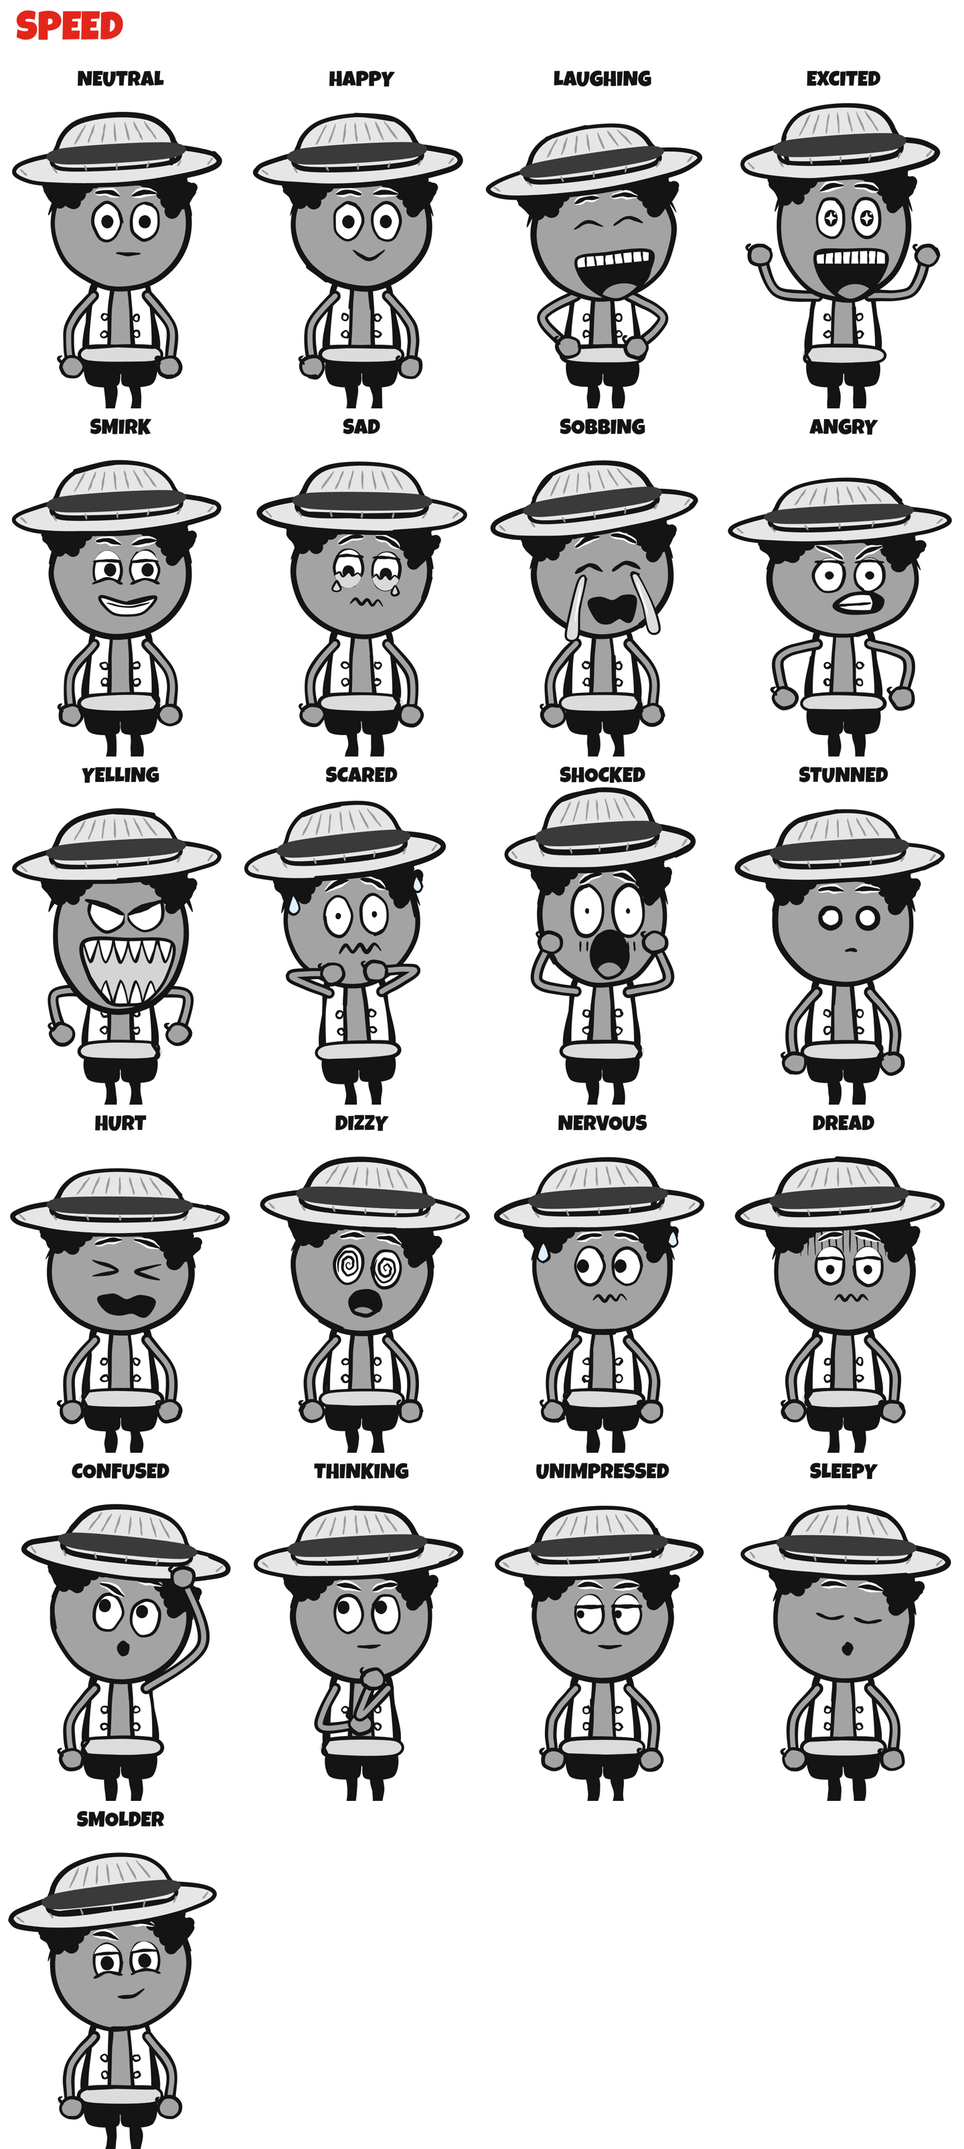
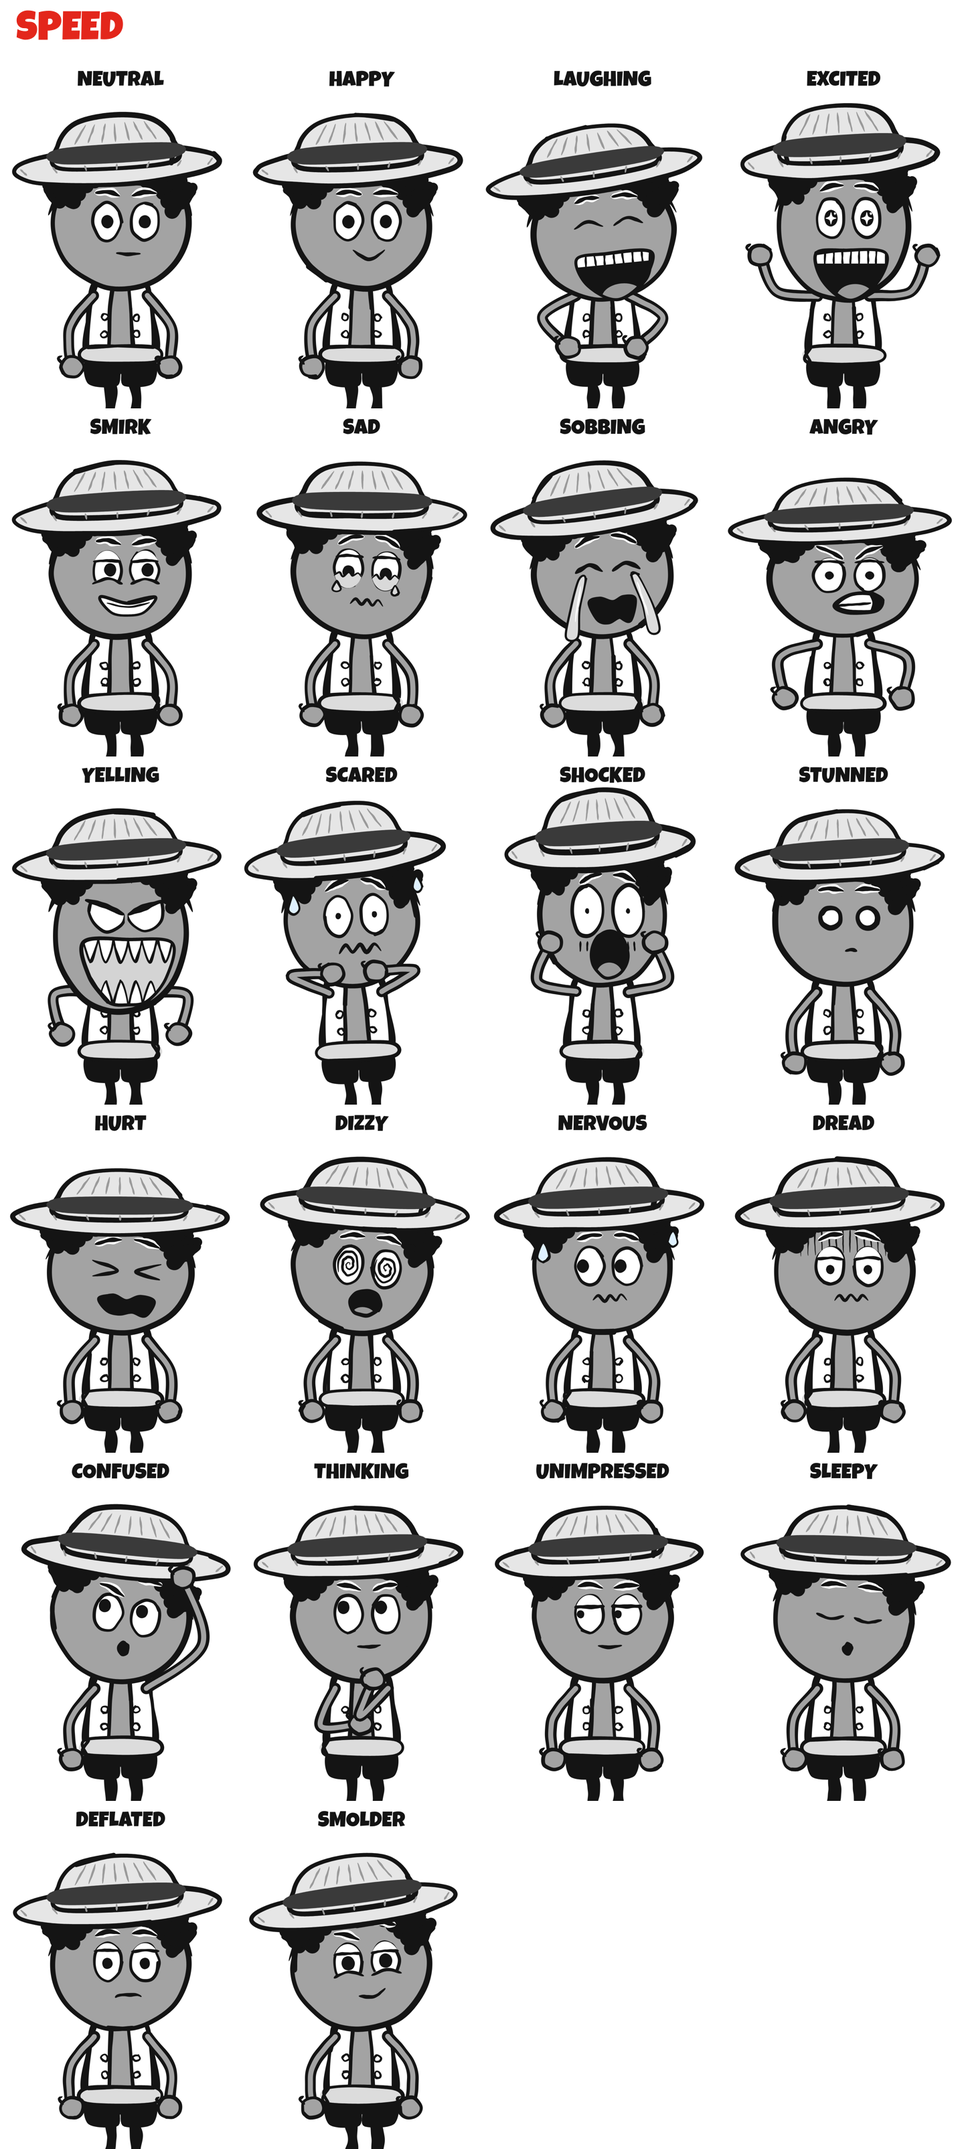
Haircut: deflated after face, transformation in the mirror instead of a smash cut
The barber turns the chair, he glances at the mirror (8 frames), the camera
pushes in and hands over to the reflection, where the hair swells into the
styled shape over 11 frames, sparkles pop one by one, the smirk lands last and
holds 2.5 s. After: new Emotions.deflated (mouth 'flatdown') and a 10-frame
sink as the hand mirror comes up.

Claude-Session: https://claude.ai/code/session_01EegAb7cyviQxGjmyZ5UDFA

Changed region(s): [[0.25, 0.8411, 0.4688, 1.0], [0.0, 0.8411, 0.2188, 0.9346]]

diff --git a/web/skits/haircut.js b/web/skits/haircut.js
@@ -1,13 +1,13 @@
 // "Me before / during / after getting my haircut" (12 s), starring the main character.
 // Based on the three-panel haircut meme; beats in references/haircut/notes.md.
 // No audio track yet: the timing follows the brief (0-3 before, 3-8 the mirror
-// moment, 8-12 after) so a sound can be laid over it, peak at ~5 s.
+// moment, 8-12 after); the sound is laid over it separately.
 Skits.haircut = (() => {
   const { stroke, fill, outline, blob, INK } = Brush;
   const { seg, lerp, easeOut, easeInOut, easeOutBack, clamp } = Stage;
   const { build, head, hh, RX, RY } = Cameos.parts;
   const W = '#fff', RED = '#d9261c';
-  const CUT_MIRROR = 4.1, CUT_AFTER = 8.0, END = 12.0;
+  const CUT_MIRROR = 4.5, CUT_AFTER = 8.0, END = 12.0;
 
   // ---------- captions: the meme's three panels, word for word ----------
   // [start, end, text]. The meme's own line breaks are kept; extra breaks are
@@ -149,6 +149,18 @@ Skits.haircut = (() => {
   const SWEPT_LINES = [[[-0.5, -0.92], [-0.36, -1.4], [-0.16, -1.7]], [[0.0, -0.98], [0.3, -1.46], [0.56, -1.74]],
                        [[0.5, -1.0], [0.9, -1.3], [1.12, -1.5]]];
   const sweptHair = ctx => hairShapes(ctx, SWEPT, AUBURN, SWEPT_LINES, AUBURN_LINE);
+  // The swell in the mirror, k 0..1: the half-cut mop sinks back to the scalp
+  // while the swept shape grows out of it. Every part scales about a point on
+  // the scalp; the colour turns over halfway, in one frame (no fades).
+  const SCALP = [0.05, -0.82];
+  const toward = (pts, f) => pts.map(([x, y]) => [SCALP[0] + (x - SCALP[0]) * f, SCALP[1] + (y - SCALP[1]) * f]);
+  const swellHair = k => ctx => {
+    const out = clamp(1 - k * 2), grow = Math.max(0, k);
+    const mop = out > 0 ? [MOP_CAP, ...LOCKS.filter((_, i) => i >= cutCount).flatMap(l => l.shapes)].map(p => toward(p, 0.75 + 0.25 * out)) : [];
+    const swept = SWEPT.map((p, i) => i === 0 ? p : toward(p, grow));
+    if (k < 0.5) hairShapes(ctx, [...mop, ...swept], GREY, [], GREY_LINE);
+    else hairShapes(ctx, swept, AUBURN, k > 0.85 ? SWEPT_LINES : [], AUBURN_LINE);
+  };
 
   // AFTER: neat and boxy. Flat top, rounded corners, sides tapering into the
   // temples, a side part combed over.
@@ -160,22 +172,23 @@ Skits.haircut = (() => {
 
   // the jawline: an angular jaw, its two edges outside the round head outline
   const JAW = [[-0.97, 0.1], [-0.76, 0.94], [-0.24, 1.1], [0.24, 1.1], [0.76, 0.94], [0.97, 0.1]];
-  const jaw = ctx => {
-    const p = hu(JAW);
+  const jaw = (ctx, k = 1) => {
+    // k 0..1: from the round chin out to the angular jaw
+    const p = hu(JAW.map(([x, y]) => { const a = Math.atan2(y, x); return [lerp(Math.cos(a), x, k), lerp(Math.sin(a), y, k)]; }));
     ctx.save();
     ctx.beginPath(); ctx.moveTo(p[0][0], p[0][1]); for (const q of p) ctx.lineTo(q[0], q[1]); ctx.closePath();
     ctx.ellipse(0, 0, RX - 9, RY - 9, 0, 0, Math.PI * 2, true);
     ctx.clip('evenodd');
     ctx.fillStyle = W; ctx.fillRect(-RX * 1.2, 0, RX * 2.4, RY * 1.3);   // the jaw fills out, covering the round chin line
     ctx.restore();
-    for (const s of [-1, 1]) stroke(ctx, hu([[s * 0.97, 0.1], [s * 0.76, 0.94], [s * 0.2, 1.1]]), { w: 13, taper0: 0.1, taper1: 0.4 });
+    for (const s of [-1, 1]) stroke(ctx, [p[s < 0 ? 0 : 5], p[s < 0 ? 1 : 4], [lerp(p[2][0], p[3][0], s < 0 ? 0.1 : 0.9), p[2][1]]], { w: 13, taper0: 0.1, taper1: 0.4 });
   };
 
-  let hairNow = mopHair, jawNow = false;
+  let hairNow = mopHair, jawNow = 0;   // jawNow: how far the jaw has grown, 0..1
   const hoodieFront = (ctx, n) => stroke(ctx, [[-50, n + 2], [-30, n + 30], [0, n + 38], [30, n + 30], [50, n + 2]], { w: 9 });
   // Hero.main's build (Cameos.spikyShades.brown) with a swappable haircut
   const guyRig = build({ shirt: '#8a8a8a', sleeve: '#8a8a8a', detail: hoodieFront,
-    head: head({ back: ears, hair: ctx => hairNow(ctx), front: ctx => { if (jawNow) jaw(ctx); } }) });
+    head: head({ back: ears, hair: ctx => hairNow(ctx), front: ctx => { if (jawNow > 0.01) jaw(ctx, jawNow); } }) });
   const guy = (ctx, p) => guyRig(ctx, { mouth: 'smile', lid: 0, brow: 0, ...p });
 
   // ---------- the barber: tall and lanky, bald with a grey horseshoe, handlebar moustache ----------
@@ -336,13 +349,15 @@ Skits.haircut = (() => {
       fill(ctx, Brush.ellipsePts(GX + s * 56 + s * 18, REST + 6, 44, 20, 10), INK, 0.8);
     }
   }
-  function cape(ctx, after) {
+  function cape(ctx, after, drop = 0) {
+    ctx.save(); ctx.translate(0, drop);   // his shoulders sinking
     const c = [[GX - 60, gNeck + 6], [GX + 60, gNeck + 6], [GX + 150, gNeck + 60], [GX + 250, gNeck + 150], [GX + 300, CAPE_BOT - 30],
                [GX + 210, CAPE_BOT + 4], [GX + 60, CAPE_BOT - 14], [GX - 80, CAPE_BOT + 6], [GX - 230, CAPE_BOT - 8], [GX - 300, CAPE_BOT - 34],
                [GX - 250, gNeck + 150], [GX - 150, gNeck + 60]];
     fill(ctx, c, '#ececec', 0.6); outline(ctx, c, { w: 11 });
     stroke(ctx, [[GX - 70, gNeck + 30], [GX, gNeck + 46], [GX + 70, gNeck + 30]], { w: 9 });   // neck band
     for (const [x0, x1] of [[-150, -190], [40, 60], [170, 220]]) stroke(ctx, [[GX + x0, gNeck + 120], [GX + x1, CAPE_BOT - 30]], { w: 6 });
+    ctx.restore();
     after?.(ctx);
   }
   // a cut-off tuft: a little pointed clump of his hair
@@ -396,45 +411,80 @@ Skits.haircut = (() => {
   const WIDE = 0.9, wide = ctx => zoom(ctx, 540, 1920, WIDE);
   const wideY = y => 1920 - (1920 - y) * WIDE;
 
-  // ---------- shot 1: in the chair, getting snipped, then the glance (0 - 4.1) ----------
+  // ---------- shot 1: in the chair, getting snipped; the barber tilts the chair,
+  // he glances at the mirror, and we push in on him (0 - 4.5) ----------
+  const TILT_AT = 3.1, GLANCE = [3.56, 3.83], PUSH = [3.86, CUT_MIRROR];   // the glance is 8 frames
+  const PIVOT = [GX, 1800];                       // the chair turns about its base
+  const CHAIR_CORNER = [GX + 220, 1330];          // where the barber takes hold of the chair back (its edge, below his head)
+  const chairTilt = t => t < TILT_AT ? 0
+    : t < 3.26 ? 0.045 * easeOut(seg(t, TILT_AT, 3.26))
+    : t < 3.48 ? lerp(0.045, -0.008, easeInOut(seg(t, 3.26, 3.48)))
+    : lerp(-0.008, 0, easeInOut(seg(t, 3.48, 3.6)));
+  const rotAbout = ([x, y], [cx, cy], a) => [cx + (x - cx) * Math.cos(a) - (y - cy) * Math.sin(a), cy + (x - cx) * Math.sin(a) + (y - cy) * Math.cos(a)];
+  // the camera: scale S with his head centre at screen point A
+  const wideCam = z => ({ S: WIDE * z, A: [470 + z * (540 + WIDE * (GX - 540) - 470), 1300 + z * (1920 + WIDE * (GY - 1920) - 1300)] });
+  const PUSH_TO = { S: 1.3, A: [540, 1320] };     // matches the mirror shot's first frame
   function shotChair(ctx, t) {
-    const z = lerp(1.0, 1.05, easeInOut(seg(t, 0, CUT_MIRROR)));
-    ctx.save(); zoom(ctx, 470, 1300, z); wide(ctx);
+    const z = lerp(1.0, 1.05, easeInOut(seg(t, 0, 4.1)));   // the slow drift of the first draft, kept
+    const p = easeInOut(seg(t, PUSH[0], PUSH[1]));
+    const c0 = wideCam(z), S = lerp(c0.S, PUSH_TO.S, p), A = Stage.mix(c0.A, PUSH_TO.A, p);
+    ctx.save(); ctx.translate(A[0], A[1]); ctx.scale(S, S); ctx.translate(-GX, -GY);
     wall(ctx); floor(ctx);
     const sn = snipState(t);
-    cutCount = sn.n; hairNow = mopHair; jawNow = false;
+    cutCount = sn.n; hairNow = mopHair; jawNow = 0;
     const nod = sn.since < 0.2 ? 0.02 * (1 - sn.since / 0.2) : 0;   // a little nod with each snip
-    const glance = easeOutBack(seg(t, 3.25, 3.5));                    // the glance up into the mirror
+    // the glance: eyes dart to the mirror first, the head turns after them
+    const dart = easeOut(seg(t, GLANCE[0], GLANCE[0] + 0.1)), turn = easeOutBack(seg(t, GLANCE[0] + 0.04, GLANCE[1]));
+    const tilt = chairTilt(t);
+    ctx.save(); ctx.translate(PIVOT[0], PIVOT[1]); ctx.rotate(tilt); ctx.translate(-PIVOT[0], -PIVOT[1]);
     chairBack(ctx);
     ctx.save(); ctx.beginPath(); ctx.rect(-600, -600, 2300, gNeck + 600 + 40); ctx.clip();
-    guy(ctx, { x: GX, y: gFeet, s: GS, ...dead, lookY: lerp(0.6, -0.05, glance), lookX: lerp(-0.45, 0, glance),
-      pupil: lerp(9, 12, glance), lid: lerp(0.62, 0.46, glance), tilt: lerp(0.08, 0.04, glance) + nod + 0.01 * Math.sin(t * 1.3) });
+    guy(ctx, { x: GX, y: gFeet, s: GS, ...dead, lookY: lerp(0.6, -0.05, dart), lookX: lerp(-0.45, 0, dart),
+      pupil: lerp(9, 12, dart), lid: lerp(0.62, 0.46, dart), face: lerp(12, 2, turn),   // the head turns to face the mirror square on
+      tilt: lerp(0.08, 0.03, turn) - tilt * 0.6 + nod + 0.01 * Math.sin(t * 1.3) });   // his head lags the chair a little
     ctx.restore();
     cape(ctx, () => falling(ctx, t, LOCKS.length));
     chairFront(ctx);
-    // the barber: scissors move from lock to lock, then wait at the glance
+    ctx.restore();
+    // the barber: scissors move from lock to lock; after the last snip his hand
+    // goes to the chair back and gives it a turn toward the mirror
     const i = Math.min(sn.n, SNIPS.length - 1), prev = Math.max(0, sn.n - 1);
     const prevAt = sn.n > 0 ? SNIPS[sn.n - 1] : 0;
     const move = sn.n === 0 ? 1 : easeInOut(seg(t, prevAt + 0.12, Math.max(prevAt + 0.13, SNIPS[i] - 0.08)));
     const a = snipHand(prev), b = snipHand(i), done = sn.n >= SNIPS.length;
-    const hand = done ? a.hand : Stage.mix(a.hand, b.hand, move);
-    const rot = done ? a.rot : lerp(a.rot, b.rot, move);
-    const front = done ? a.front : (move < 0.5 ? a.front : b.front);
+    let hand = done ? a.hand : Stage.mix(a.hand, b.hand, move);
+    let rot = done ? a.rot : lerp(a.rot, b.rot, move);
+    let front = done ? a.front : (move < 0.5 ? a.front : b.front);
     const lean = LEAN - 0.012 * Math.sin(t * 0.9);
+    if (done) {   // to the chair back (2.95-3.1), then it moves with the chair
+      const k = easeInOut(seg(t, 2.95, TILT_AT));
+      hand = Stage.mix(a.hand, rotAbout(CHAIR_CORNER, PIVOT, tilt), k);
+      rot = lerp(a.rot, 2.7, k); front = k > 0.5 || a.front;   // scissors closed, pointing down and away
+    }
     barber(ctx, { x: BX, y: BFEET, s: BS, lean, weight: -0.6, ...fussy,
-      ...barberArm(-1, bLocal(hand, lean), 'down', front), holdL: scissors(rot, sn.open),
+      ...barberArm(-1, bLocal(hand, lean), 'down', front), holdL: scissors(rot, done ? 0 : sn.open),
       ...barberArm(1, [96, -196], 'out', false), holdR: comb });
     ctx.restore();
-    const top = Math.min(GY - 1.66 * RY * GS, bHeadY(LEAN)[1] - RY * 0.9 * BS);
-    return { top: (wideY(top) - 1300) * z + 1300 };
+    // what has to stay under the caption: his hair, and the barber's head while it's
+    // across the caption's width
+    const toScreen = y => A[1] + (y - GY) * S;
+    const bh = bHeadY(LEAN), bLeft = A[0] + (bh[0] - GX - RX * 0.9 * BS) * S;
+    const tops = [toScreen(GY - 1.66 * RY * GS)];
+    if (bLeft < 880) tops.push(toScreen(bh[1] - RY * 0.9 * BS));
+    return { top: Math.min(...tops) };
   }
 
-  // ---------- shot 2: the mirror (4.1 - 8.0) ----------
-  // The reflection is shot 1's view, flipped and closer. Push in on his face and hold.
+  // ---------- shot 2: the mirror (4.5 - 8.0) ----------
+  // The reflection is shot 1's view, flipped, at the scale the push-in ended on.
+  // His hair swells into the styled shape, the sparkles pop one by one as it
+  // settles, the brow cocks, and the smirk lands last. Then hold, 2.5 s.
+  const SWELL = [4.66, 5.03];                       // 11 frames
+  const SPARKS = [4.93, 5.1, 5.27];                 // one at a time as it settles
+  const COCK = [5.12, 5.36], SMIRK = 5.5;
   const MIRROR = [80, 170, 1000, 2100];   // frame: x0, top, x1, bottom (arched top)
   function shotMirror(ctx, t) {
     const k = easeInOut(seg(t, CUT_MIRROR, CUT_AFTER));
-    const z = lerp(1.0, 1.12, k);
+    const z = lerp(1.0, 1.1, k);   // the push-in carries on, slower
     const FX = 540, FY = 1320;   // his face stays here on screen as we push in
     ctx.save(); zoom(ctx, FX, FY, z);
     ctx.fillStyle = '#e8e8e8'; ctx.fillRect(-400, -400, 1900, 2800);   // the shop wall the mirror hangs on
@@ -450,20 +500,24 @@ Skits.haircut = (() => {
     ctx.translate(FX, FY); ctx.scale(-RS, RS); ctx.translate(-GX, -GY);
     wall(ctx); floor(ctx);
     chairBack(ctx);
-    hairNow = sweptHair; jawNow = true;
-    const peak = 5.0;                                    // the look lands: brow cocks, head settles
-    const cock = easeOutBack(seg(t, peak - 0.05, peak + 0.22));
-    const sm = Emotions.smolder;
+    cutCount = SNIPS.length;
+    const eob = easeOutBack(seg(t, SWELL[0], SWELL[1])), swell = eob <= 1 ? eob : 1 + (eob - 1) * 0.45;   // swells a touch past, then settles
+    hairNow = t >= SWELL[1] ? sweptHair : swellHair(swell); jawNow = clamp(swell);
+    const cock = easeOutBack(seg(t, COCK[0], COCK[1]));
+    const sm = Emotions.smolder, g = { ...dead, lookY: -0.05, pupil: 12, lid: 0.46 };   // he arrives with the glance face
     ctx.save(); ctx.beginPath(); ctx.rect(-600, -600, 2300, gNeck + 600 + 40); ctx.clip();
-    guy(ctx, { x: GX, y: gFeet, s: GS, ...sm, browLiftR: lerp(-6, sm.browLiftR, cock), browR: lerp(0, sm.browR, cock),
-      lid: lerp(0.38, sm.lid, cock), tilt: lerp(0.02, sm.tilt, cock) + 0.006 * Math.sin(t * 1.1) });
+    guy(ctx, { x: GX, y: gFeet, s: GS, ...(cock > 0 ? sm : g), face: 2,
+      lid: lerp(g.lid, sm.lid, clamp(cock)), lowLid: cock > 0 ? lerp(0.05, sm.lowLid, clamp(cock)) : 0, pupil: lerp(12, sm.pupil, clamp(cock)),
+      browL: lerp(0, sm.browL, cock), browR: lerp(0, sm.browR, cock), browLiftR: lerp(0, sm.browLiftR, cock),
+      mouth: t >= SMIRK ? sm.mouth : 'flat', tilt: lerp(0.03, sm.tilt, clamp(seg(t, SWELL[0], SMIRK))) + 0.006 * Math.sin(t * 1.1) });
     ctx.restore();
-    cape(ctx, () => falling(ctx, CUT_MIRROR, 7));
+    cape(ctx, () => falling(ctx, CUT_MIRROR, LOCKS.length));
     chairFront(ctx);
-    // the barber in the glass: just his arm, in from the edge, scissors frozen open
-    const mh = [GX + 330, GY - 20], from = [BX - 20, 1300];
-    Chars.tube(ctx, from, mh, 0.12, 24 * BS, W, false);
-    scissors(-1.35, 1)(ctx, mh[0], mh[1]);   // blades toward the hair
+    // the barber in the glass: his arm in from the edge, hand on the chair back
+    // where he left it, scissors closed
+    const mh = CHAIR_CORNER, from = [BX - 20, 1320];
+    Chars.tube(ctx, from, mh, -0.12, 24 * BS, W, false);
+    scissors(2.7 + LEAN, 0)(ctx, mh[0], mh[1]);
     Chars.hand(ctx, mh[0], mh[1], null, BS);
     ctx.restore();
     // glass sheen: hard white streaks in the upper right corner of the glass
@@ -471,16 +525,16 @@ Skits.haircut = (() => {
     stroke(ctx, [[x1 - 60, 980], [x1 - 10, 900]], { w: 9, color: W, taper0: 0.3, taper1: 0.3 });
     ctx.restore();
     outline(ctx, framePts, { w: 12 });   // the frame's inner edge over the glass
-    // sparkles on the hair at the peak: hard-edged four-point stars
-    const sp = [[FX - 110, FY - 410, 0, 40], [FX + 100, FY - 450, 0.12, 28], [FX + 210, FY - 320, 0.22, 22]];
-    for (const [sx, sy, d, r] of sp) {
-      const k2 = easeOutBack(seg(t, peak + d, peak + d + 0.18));
+    // sparkles on the hair: hard-edged four-point stars, popping in one at a time
+    const sp = [[FX - 110, FY - 410, SPARKS[0], 40], [FX + 100, FY - 450, SPARKS[1], 28], [FX + 210, FY - 320, SPARKS[2], 22]];
+    for (const [sx, sy, at, r] of sp) {
+      const k2 = easeOutBack(seg(t, at, at + 0.15));
       if (k2 <= 0) continue;
-      const tw = 1 - 0.15 * Math.abs(Math.sin((t - peak) * 2.3 + d * 9));   // a slight twinkle, uneven
+      const tw = 1 - 0.15 * Math.abs(Math.sin((t - at) * 2.3 + at * 9));   // a slight twinkle, uneven
       star(ctx, sx, sy, r * k2 * tw);
     }
     ctx.restore();
-    return { top: FY + (-1.92 * RY * GS * RS) * z };
+    return { top: FY + (-Math.max(1.66, -SCALP[1] + (1.98 + SCALP[1]) * swell) * RY * GS * RS - 12) * z };   // the tallest lock's tip, plus its outline
   }
   function star(ctx, x, y, r) {
     const pts = [];
@@ -497,12 +551,16 @@ Skits.haircut = (() => {
     wall(ctx); floor(ctx);
     for (let i = 0; i < 9; i++) tuft(ctx, GX + 220 + 30 * i + 20 * hh(i), 1790 + 18 * hh(i + 3), GS * 0.8, -0.6 + hh(i + 5) * 1.2);   // swept-up heap
     chairBack(ctx);
-    hairNow = neatHair; jawNow = false;
+    hairNow = neatHair; jawNow = 0;
+    // deflated, not bored: and as the hand mirror comes up, his head and
+    // shoulders sink over 10 frames. Oh. It's over.
     const blinkLid = t > 10.9 && t < 11.04 ? 1 : 0;   // one blink, late. that's it.
+    const sink = easeInOut(seg(t, 8.95, 9.28));
+    const df = Emotions.deflated;
     ctx.save(); ctx.beginPath(); ctx.rect(-600, -600, 2300, gNeck + 600 + 40); ctx.clip();
-    guy(ctx, { x: GX, y: gFeet, s: GS, ...dead, lid: blinkLid || 0.5, tilt: 0.006 * Math.sin(t * 0.8) });
+    guy(ctx, { x: GX, y: gFeet, s: GS, ...df, lid: blinkLid || df.lid, bob: 14 * sink, tilt: 0.035 * sink + 0.006 * Math.sin(t * 0.8) });
     ctx.restore();
-    cape(ctx);
+    cape(ctx, null, 12 * sink);
     chairFront(ctx);
     // the barber: scissors just closed on the last snip, then he swaps them for
     // the hand mirror and holds it up behind his head, pleased with himself

diff --git a/web/emotions.js b/web/emotions.js
@@ -52,6 +52,7 @@ const Emotions = (() => {
                  ...arm(1, [26, -306], 'down', true), ...arm(-1, [-2, -210], 'down', true) },   // hand on chin, other arm across holding the elbow
     unimpressed: { mouth: 'flat', lid: 0.5, flatLid: true, pupil: 8, lookX: -0.9 },   // vacant: flat lids, side-eye
     sleepy:    { lid: 1, mouth: 'o', open: 0.1, tilt: 0.1, brow: -0.3 },
+    deflated:  { mouth: 'flatdown', lid: 0.3, pupil: 11, brow: -0.35, lookY: 0.1 },   // "oh. it's over": lids up a little, brows sagging, mouth flat with the corners down
     smolder:   { mouth: 'smirk', lid: 0.4, lowLid: 0.32, pupil: 14, browL: 0.45, browR: -0.5, browLiftR: -18, tilt: -0.07 },   // too cool: eyes narrowed to a squint, one brow cocked, closed half smile
   };
   return E;

diff --git a/web/characters.js b/web/characters.js
@@ -301,6 +301,8 @@ const Chars = (() => {
       stroke(ctx, [[x - 34 * s, y - 8 * s], [x, y + 14 * s], [x + 34 * s, y - 8 * s]], { w: 7 * s, color });
     } else if (k === 'frown') {
       stroke(ctx, [[x - 30 * s, y + 10 * s], [x, y - 6 * s], [x + 30 * s, y + 10 * s]], { w: 7 * s, color });
+    } else if (k === 'flatdown') {   // deflated: a flat line, the corners just turned down
+      stroke(ctx, [[x - 28 * s, y + 7 * s], [x - 17 * s, y + 1 * s], [x + 17 * s, y], [x + 28 * s, y + 6 * s]], { w: 7 * s, color });
     } else if (k === 'smirk') {
       stroke(ctx, [[x - 26 * s, y + 4 * s], [x + 6 * s, y + 6 * s], [x + 32 * s, y - 10 * s]], { w: 7 * s, color });
     } else if (k === 'wobbly') {

diff --git a/references/haircut/notes.md b/references/haircut/notes.md
@@ -21,14 +21,22 @@ Beats:
             hand-timed (0.42, 0.74, 1.06, 1.30, 1.66, 1.88, 2.30, 2.52, 2.86),
             each takes a clump off screen right and the top; clumps fall onto the cape.
             Caption: "Me before getting my haircut"
-- 3.00–4.10 Half done and tousled. Caption: "Me that one random moment during
-            my haircut". He glances up into the mirror (3.25–3.5).
-- 4.10–8.00 Cut to the mirror (arched frame, flipped reflection). Same guy, but:
-            swept-up hair with volume in a natural auburn (the one colour
-            accent), a jawline (two strokes), `Emotions.smolder`. Slow push-in.
-            5.00 the peak: brow cocks, head settles, three hard-edged sparkles
-            pop. Hold.
-- 8.00–12.0 Snip, hard cut. Neat grey rectangle, dead-eyed again, looking
-            straight ahead. Barber swaps scissors for a hand mirror (8.55) and
-            holds it up behind his head (8.75–9.25), pleased. He stares. Push in
-            from 9.9. One blink at 10.9. Nothing.
+- 3.00–4.50 Half done and tousled. Caption: "Me that one random moment during
+            my haircut". 2.95–3.10 the barber's hand goes to the chair back;
+            3.10–3.60 he turns the chair a little toward the mirror and it
+            settles. 3.56–3.83 (8 frames) he glances at the mirror: eyes dart
+            first, the head turns after them. 3.86–4.50 push in on his face,
+            ending at the mirror shot's framing.
+- 4.50–8.00 The mirror (arched frame, flipped reflection): at first the same
+            half-cut grey mop. 4.66–5.03 (11 frames) the hair swells up into the
+            swept auburn shape, overshooting a touch and settling, the jaw
+            squaring as it goes. Sparkles pop one at a time at 4.93, 5.10, 5.27.
+            5.12–5.36 lids narrow and the brow cocks (`Emotions.smolder`); the
+            smirk lands last, at 5.50. Hold the smug face 5.5–8.0 (2.5 s), slow
+            push-in.
+- 8.00–12.0 Snip, hard cut. Neat grey box. Deflated (`Emotions.deflated`):
+            lids up a little from "before", brows sagging, mouth flat with the
+            corners down. Barber swaps scissors for a hand mirror (8.55) and
+            holds it up behind his head (8.75–9.25), pleased; as it comes up his
+            head and shoulders sink (8.95–9.28, 10 frames). Push in from 9.9.
+            One blink at 10.9.
